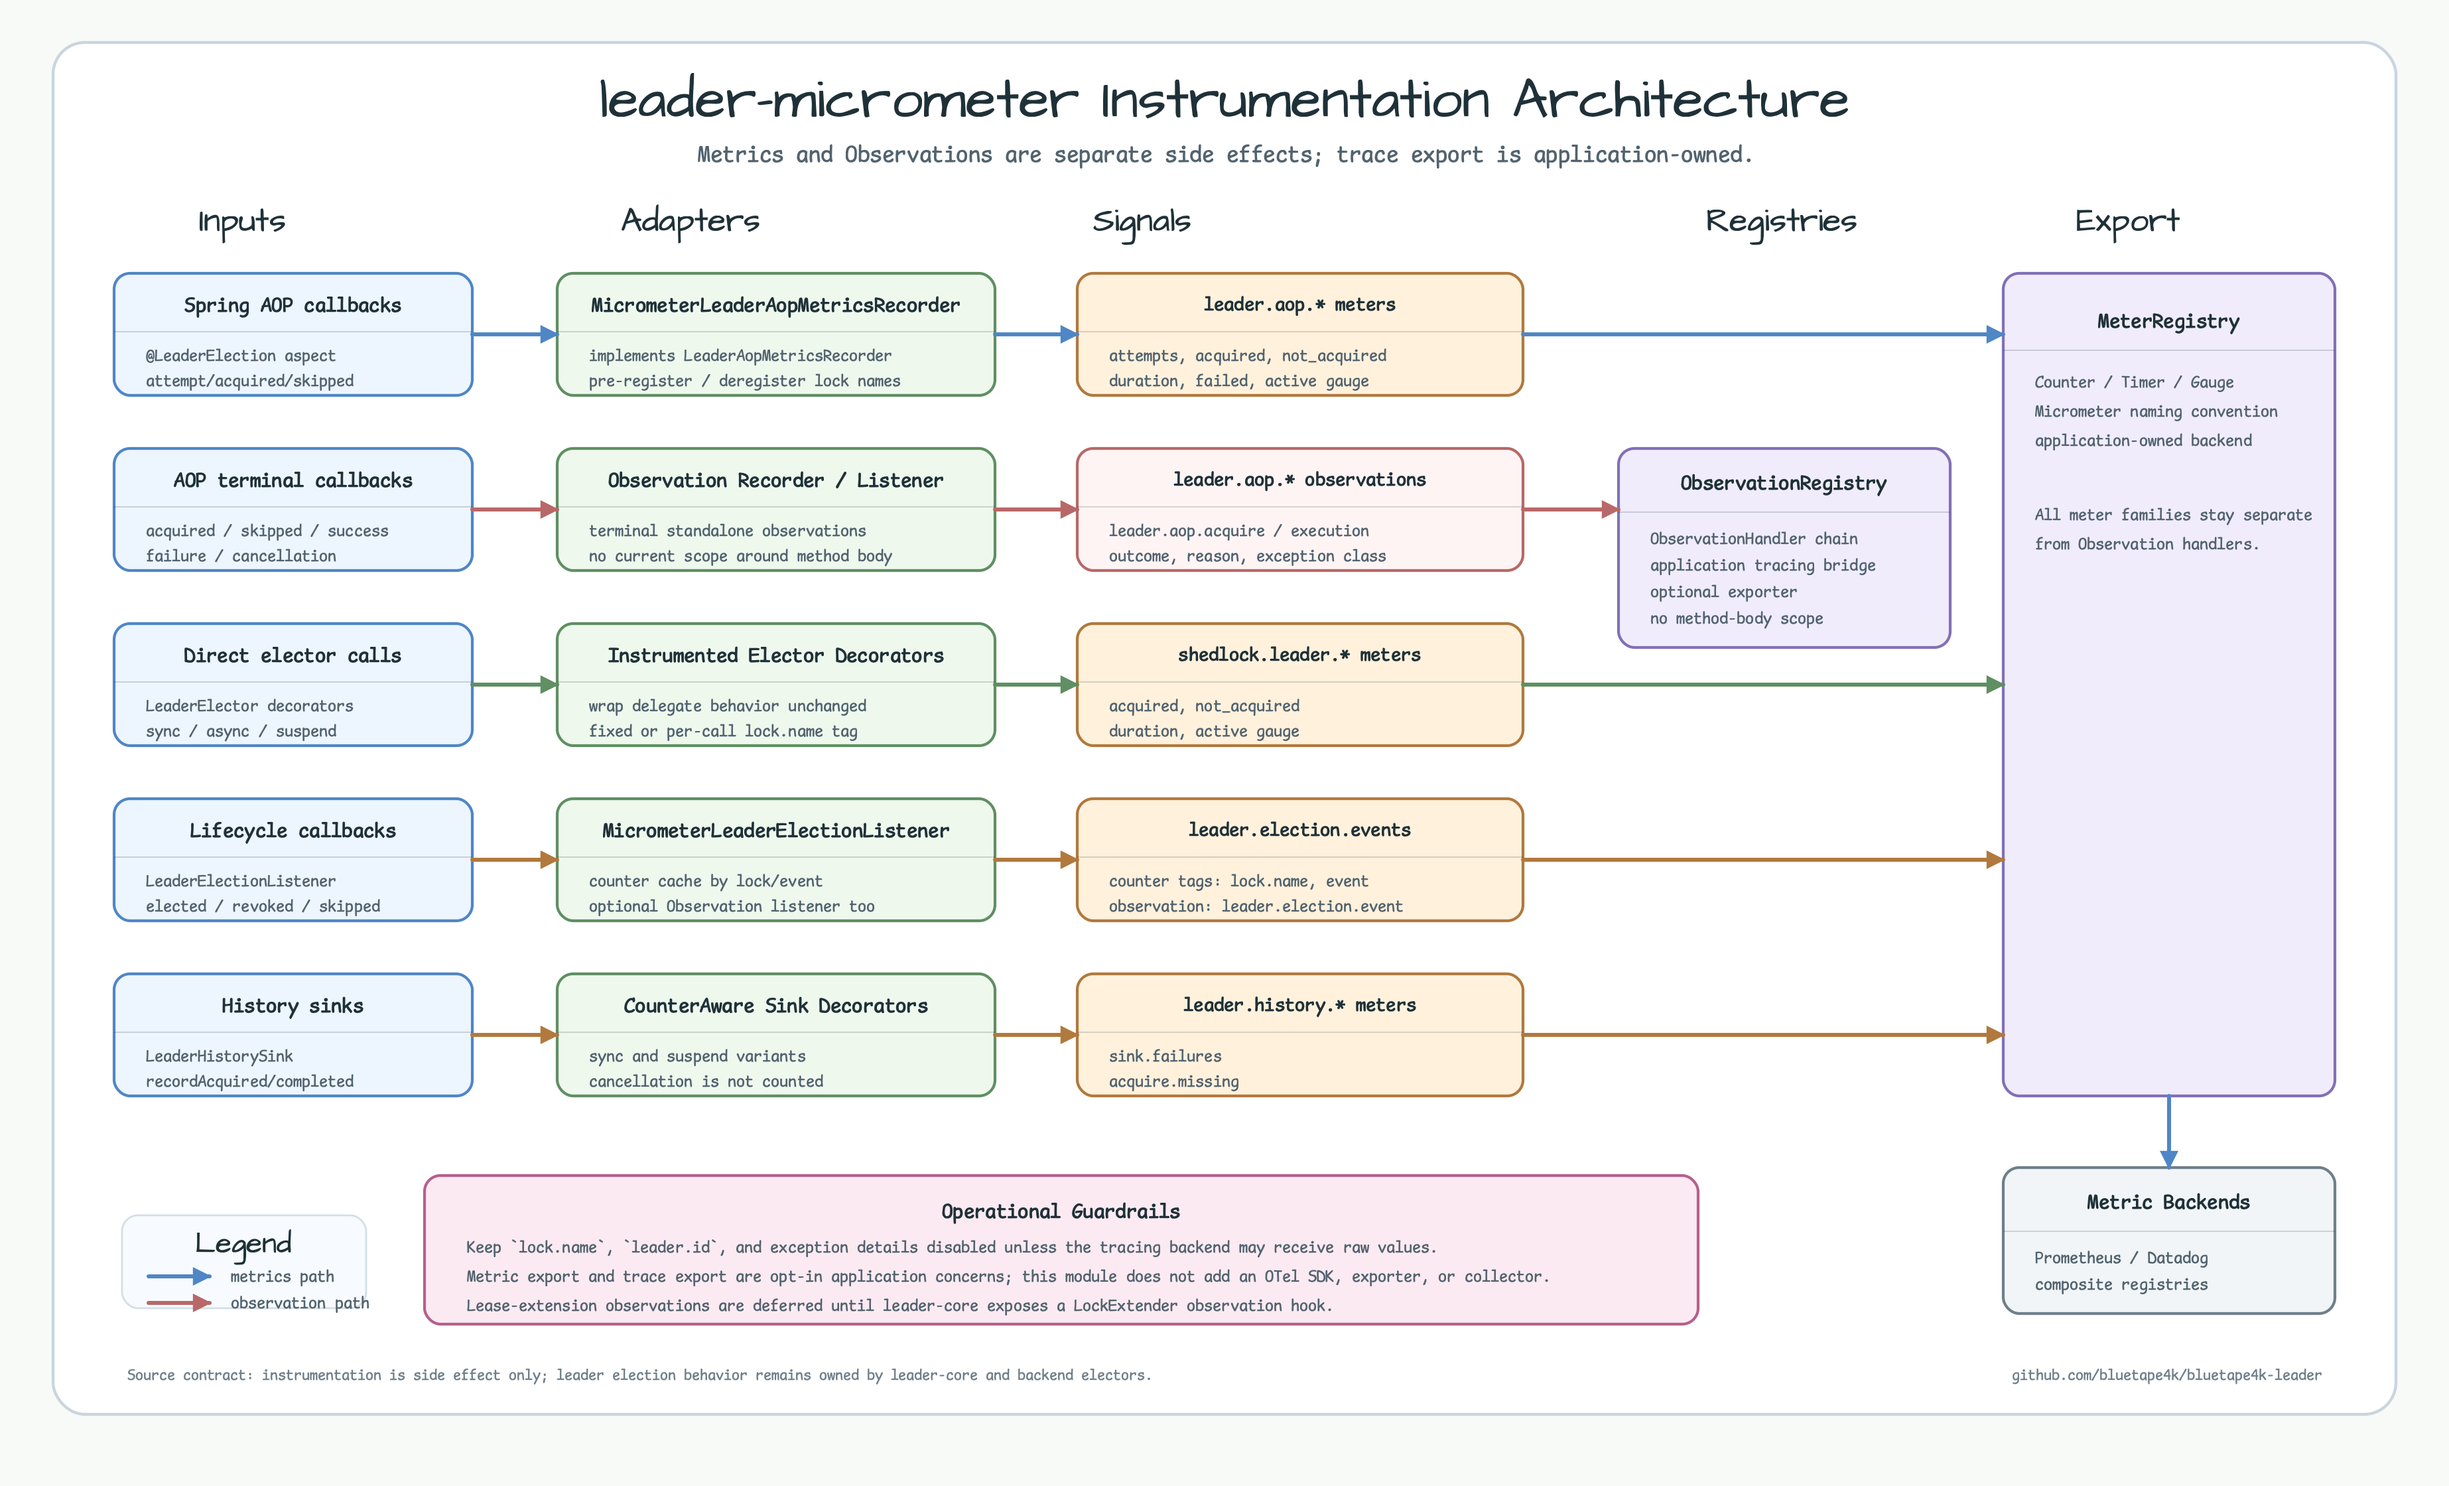
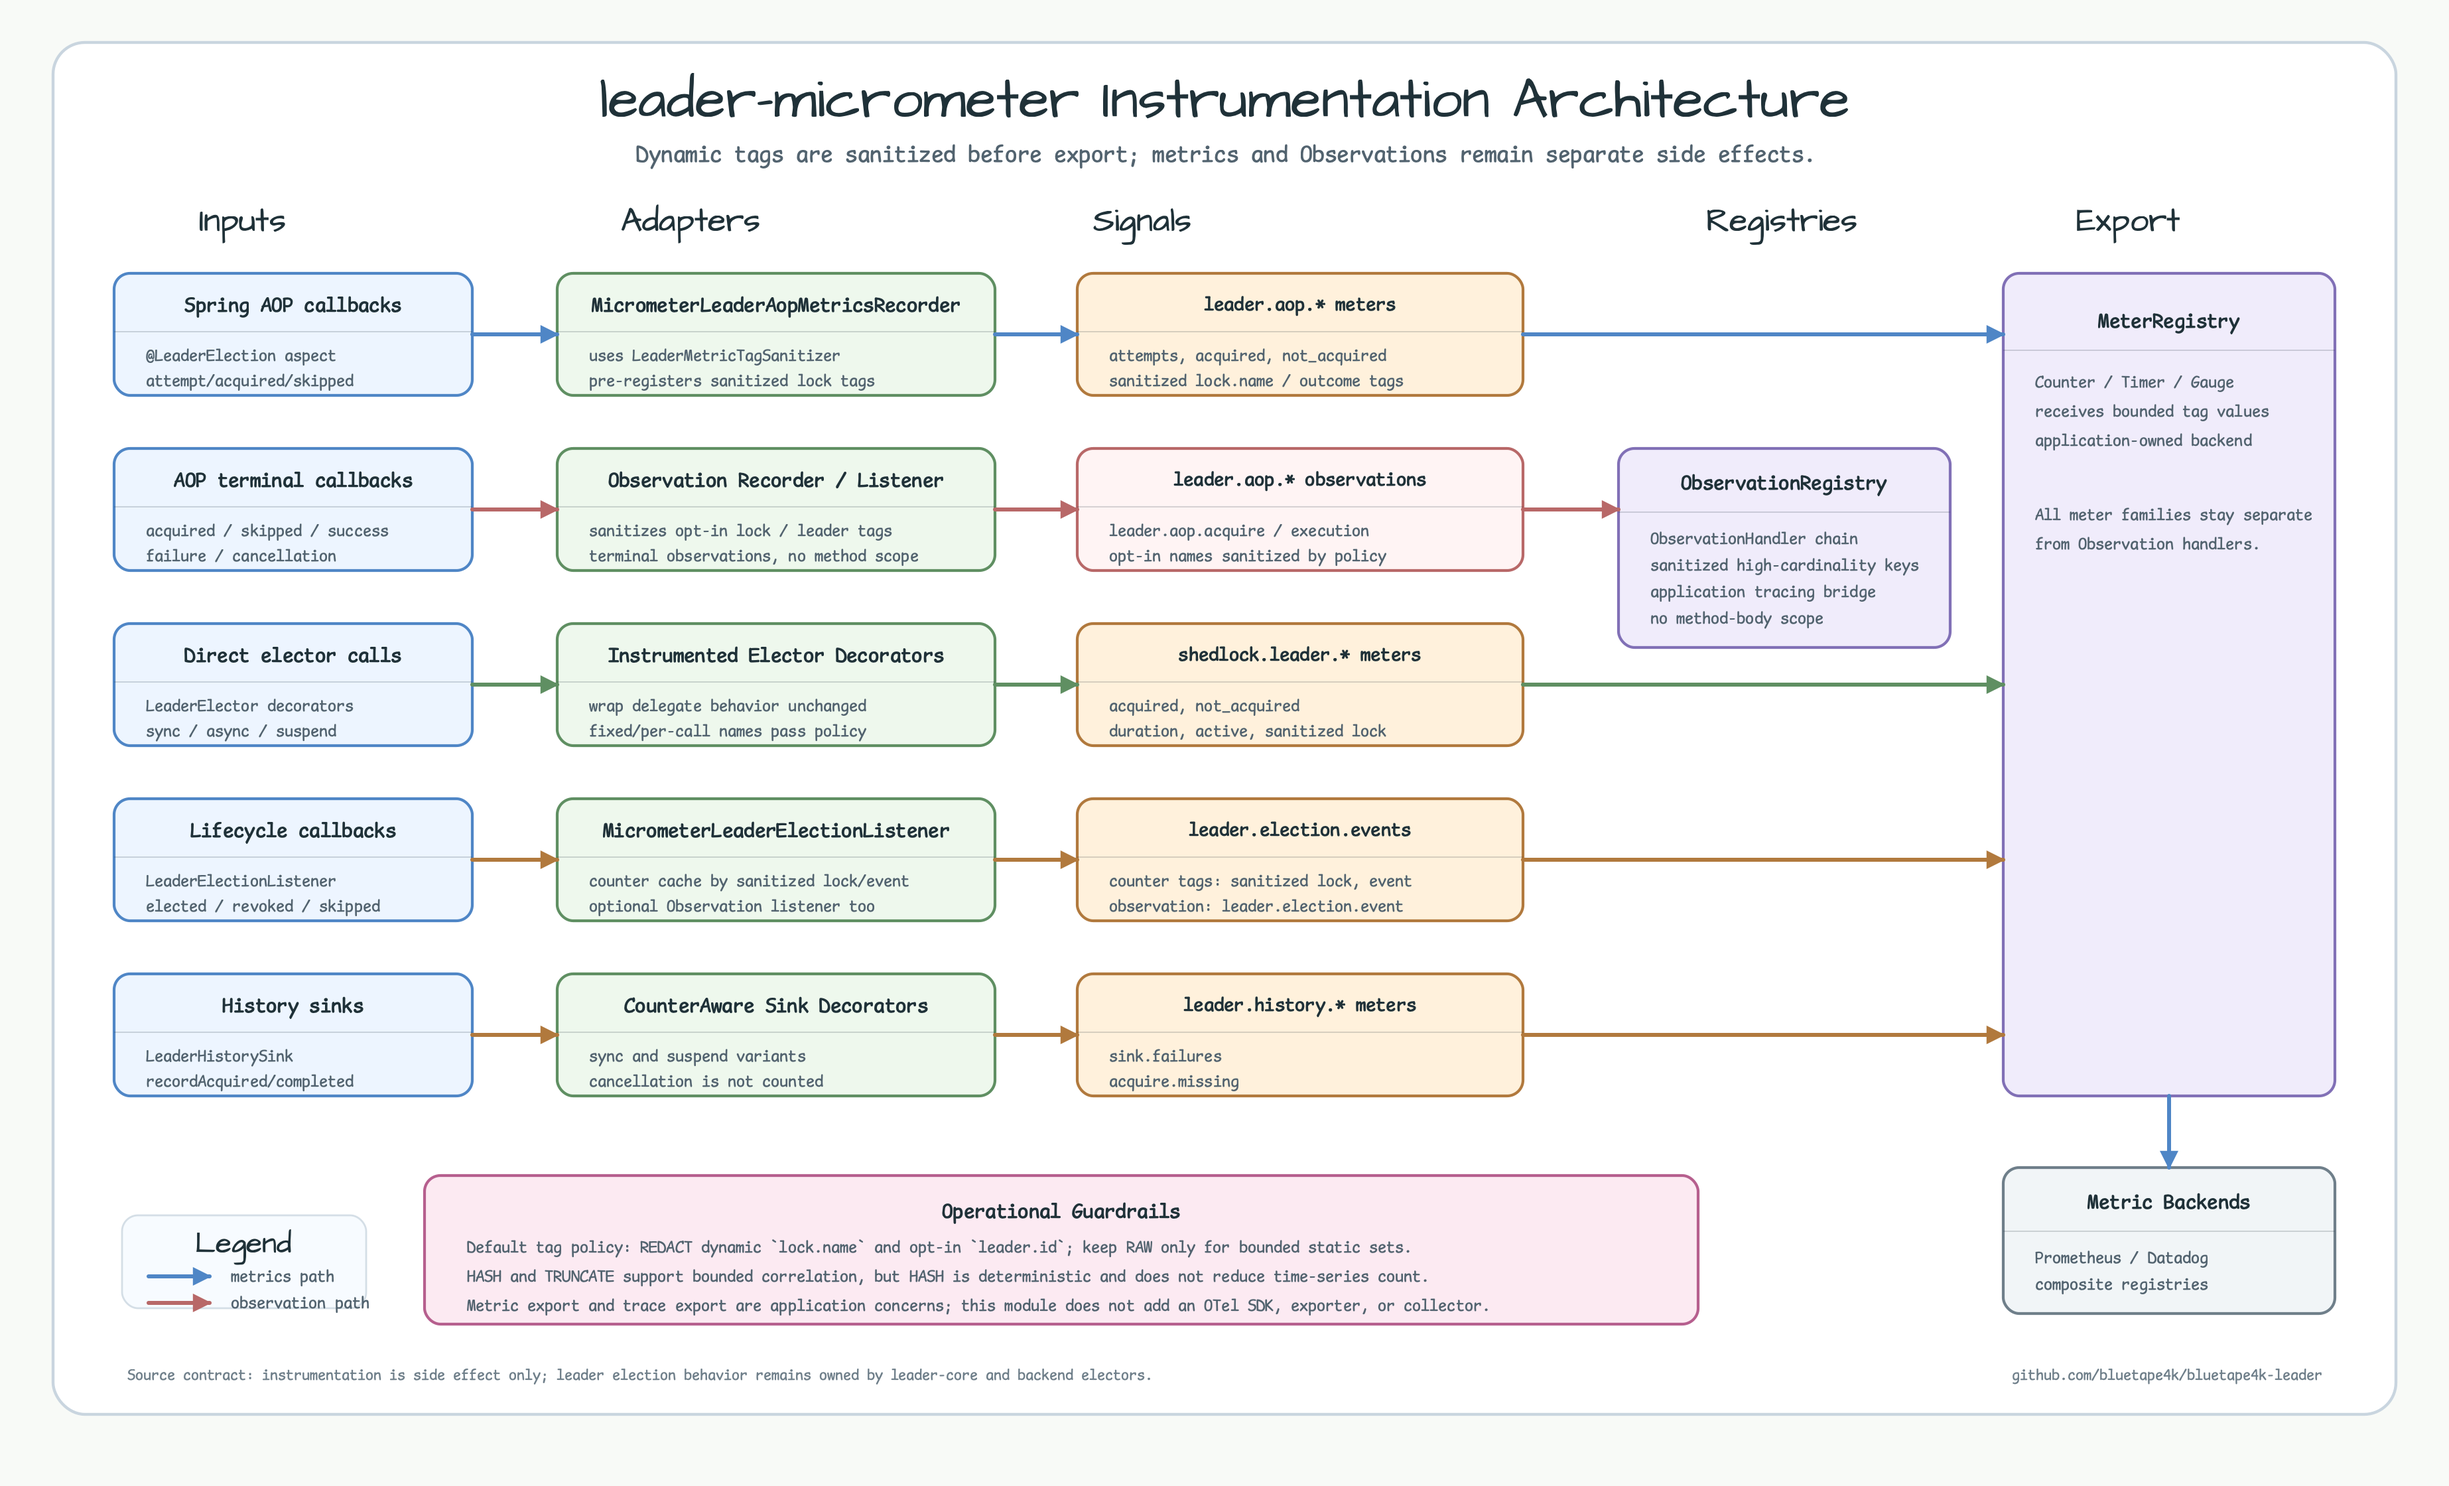
docs: sync metric cardinality diagram
Update the shared leader-micrometer README diagram so the visual explanation matches the new tag sanitizer policy.

Constraint: README sections for #530 reuse this architecture diagram across micrometer, Spring Boot, and Prometheus dashboard docs.

Rejected: Leaving the existing raw-tag wording in the diagram | it contradicts the sanitized-by-default contract.

Confidence: high

Scope-risk: narrow

Directive: Keep README diagrams synchronized with observability contract changes, including shared reused assets.

Tested: xmllint --noout docs/images/readme-diagrams/leader-micrometer-architecture-01.svg

Tested: cairosvg render to PNG and full-size PNG visual inspection

Tested: diagram geometry, endpoint, mixed-corner, and connector audits

Not-tested: Gradle tests; docs/asset-only update after previously passing affected-module CI.

diff --git a/docs/review/2026-07-03-issue-530-cardinality-controls-code-review.md b/docs/review/2026-07-03-issue-530-cardinality-controls-code-review.md
@@ -17,7 +17,7 @@
 | Tier 4 Operations | PASS | Fresh affected-module verification completed; prior evidence gap was closed by full module tests. |
 | Tier 5 Developer/API | PASS | Existing constructors remain available for `LeaderObservationOptions` and `LeaderAopProperties.Metrics`; javap confirmed binary-compatible entry points. |
 | Tier 6 User/Caller | PASS | README EN/KO now explains RAW, HASH, TRUNCATE, allowlist risk, and that built-in meters do not currently emit `backend.name`. Rerun result: P0=0, P1=0. |
-| Tier 7 Evidence | PASS | Tracked review artifact and lessons are included before PR creation. |
+| Tier 7 Evidence | PASS | Tracked review artifact and lessons are included before PR creation; README architecture diagram was updated after the cardinality-control documentation changed. |
 
 Final blocking count: P0=0, P1=0.
 
@@ -29,6 +29,7 @@ Final blocking count: P0=0, P1=0.
 - P2 performance: HASH mode created digest instances per call. Fixed with a thread-local SHA-256 digest and per-use reset.
 - P2 operations: dashboard duration PromQL divided separately aggregated series. Fixed with matching `sum by (lock_name)` on sum and count.
 - P2/P3 docs: HASH and backend-name semantics were ambiguous. README EN/KO now states deterministic unsalted hash risk, static allowlist expectations, and current `backend.name` emission status.
+- Diagram drift: the reused `leader-micrometer` architecture diagram still described raw/high-cardinality tags without the shared sanitizer policy. Updated the SVG/PNG to show `LeaderMetricTagSanitizer`, sanitized meter/Observation tags, and REDACT/RAW/HASH/TRUNCATE guardrails.
 
 ## Verification
 
@@ -48,6 +49,20 @@ Final blocking count: P0=0, P1=0.
   - Result: PASS.
 - Pattern scan for forbidden assertions, stale raw-lock docs, and ad hoc concurrency helpers.
   - Result: PASS for touched scope; concurrency coverage uses `MultithreadingTester`.
+- `xmllint --noout docs/images/readme-diagrams/leader-micrometer-architecture-01.svg`
+  - Result: PASS.
+- `~/.local/bin/cairosvg docs/images/readme-diagrams/leader-micrometer-architecture-01.svg -o docs/images/readme-diagrams/leader-micrometer-architecture-01.png -s 2`
+  - Result: PASS, PNG rendered at 3692x2240.
+- `python3 /Users/debop/.codex/skills/bluetape4k-diagram/references/diagram-geometry-audit.py docs/images/readme-diagrams/leader-micrometer-architecture-01.svg`
+  - Result: PASS, `geometry_failures=0`.
+- `python3 /Users/debop/.codex/skills/bluetape4k-diagram/references/diagram-endpoint-audit.py docs/images/readme-diagrams/leader-micrometer-architecture-01.svg`
+  - Result: PASS, `files=1`.
+- `python3 /Users/debop/.codex/skills/bluetape4k-diagram/references/diagram-mixed-corner-audit.py docs/images/readme-diagrams/leader-micrometer-architecture-01.svg`
+  - Result: PASS, `paths=16`, `q_bends=0`, `failures=0`; all connectors are straight lines in this asset.
+- `python3 /Users/debop/.codex/skills/bluetape4k-diagram/references/diagram-connector-audit.py docs/images/readme-diagrams/leader-micrometer-architecture-01.svg`
+  - Result: PASS, `markers=5`, `connectors=16`, `cards=19`, `intrusions=0`, `crossings=0`.
+- Full-size PNG inspection with `view_image`
+  - Result: PASS, no visible text overflow, connector/card intrusion, label overlap, or clipped guardrail text.
 
 ## Residual Risk
 
